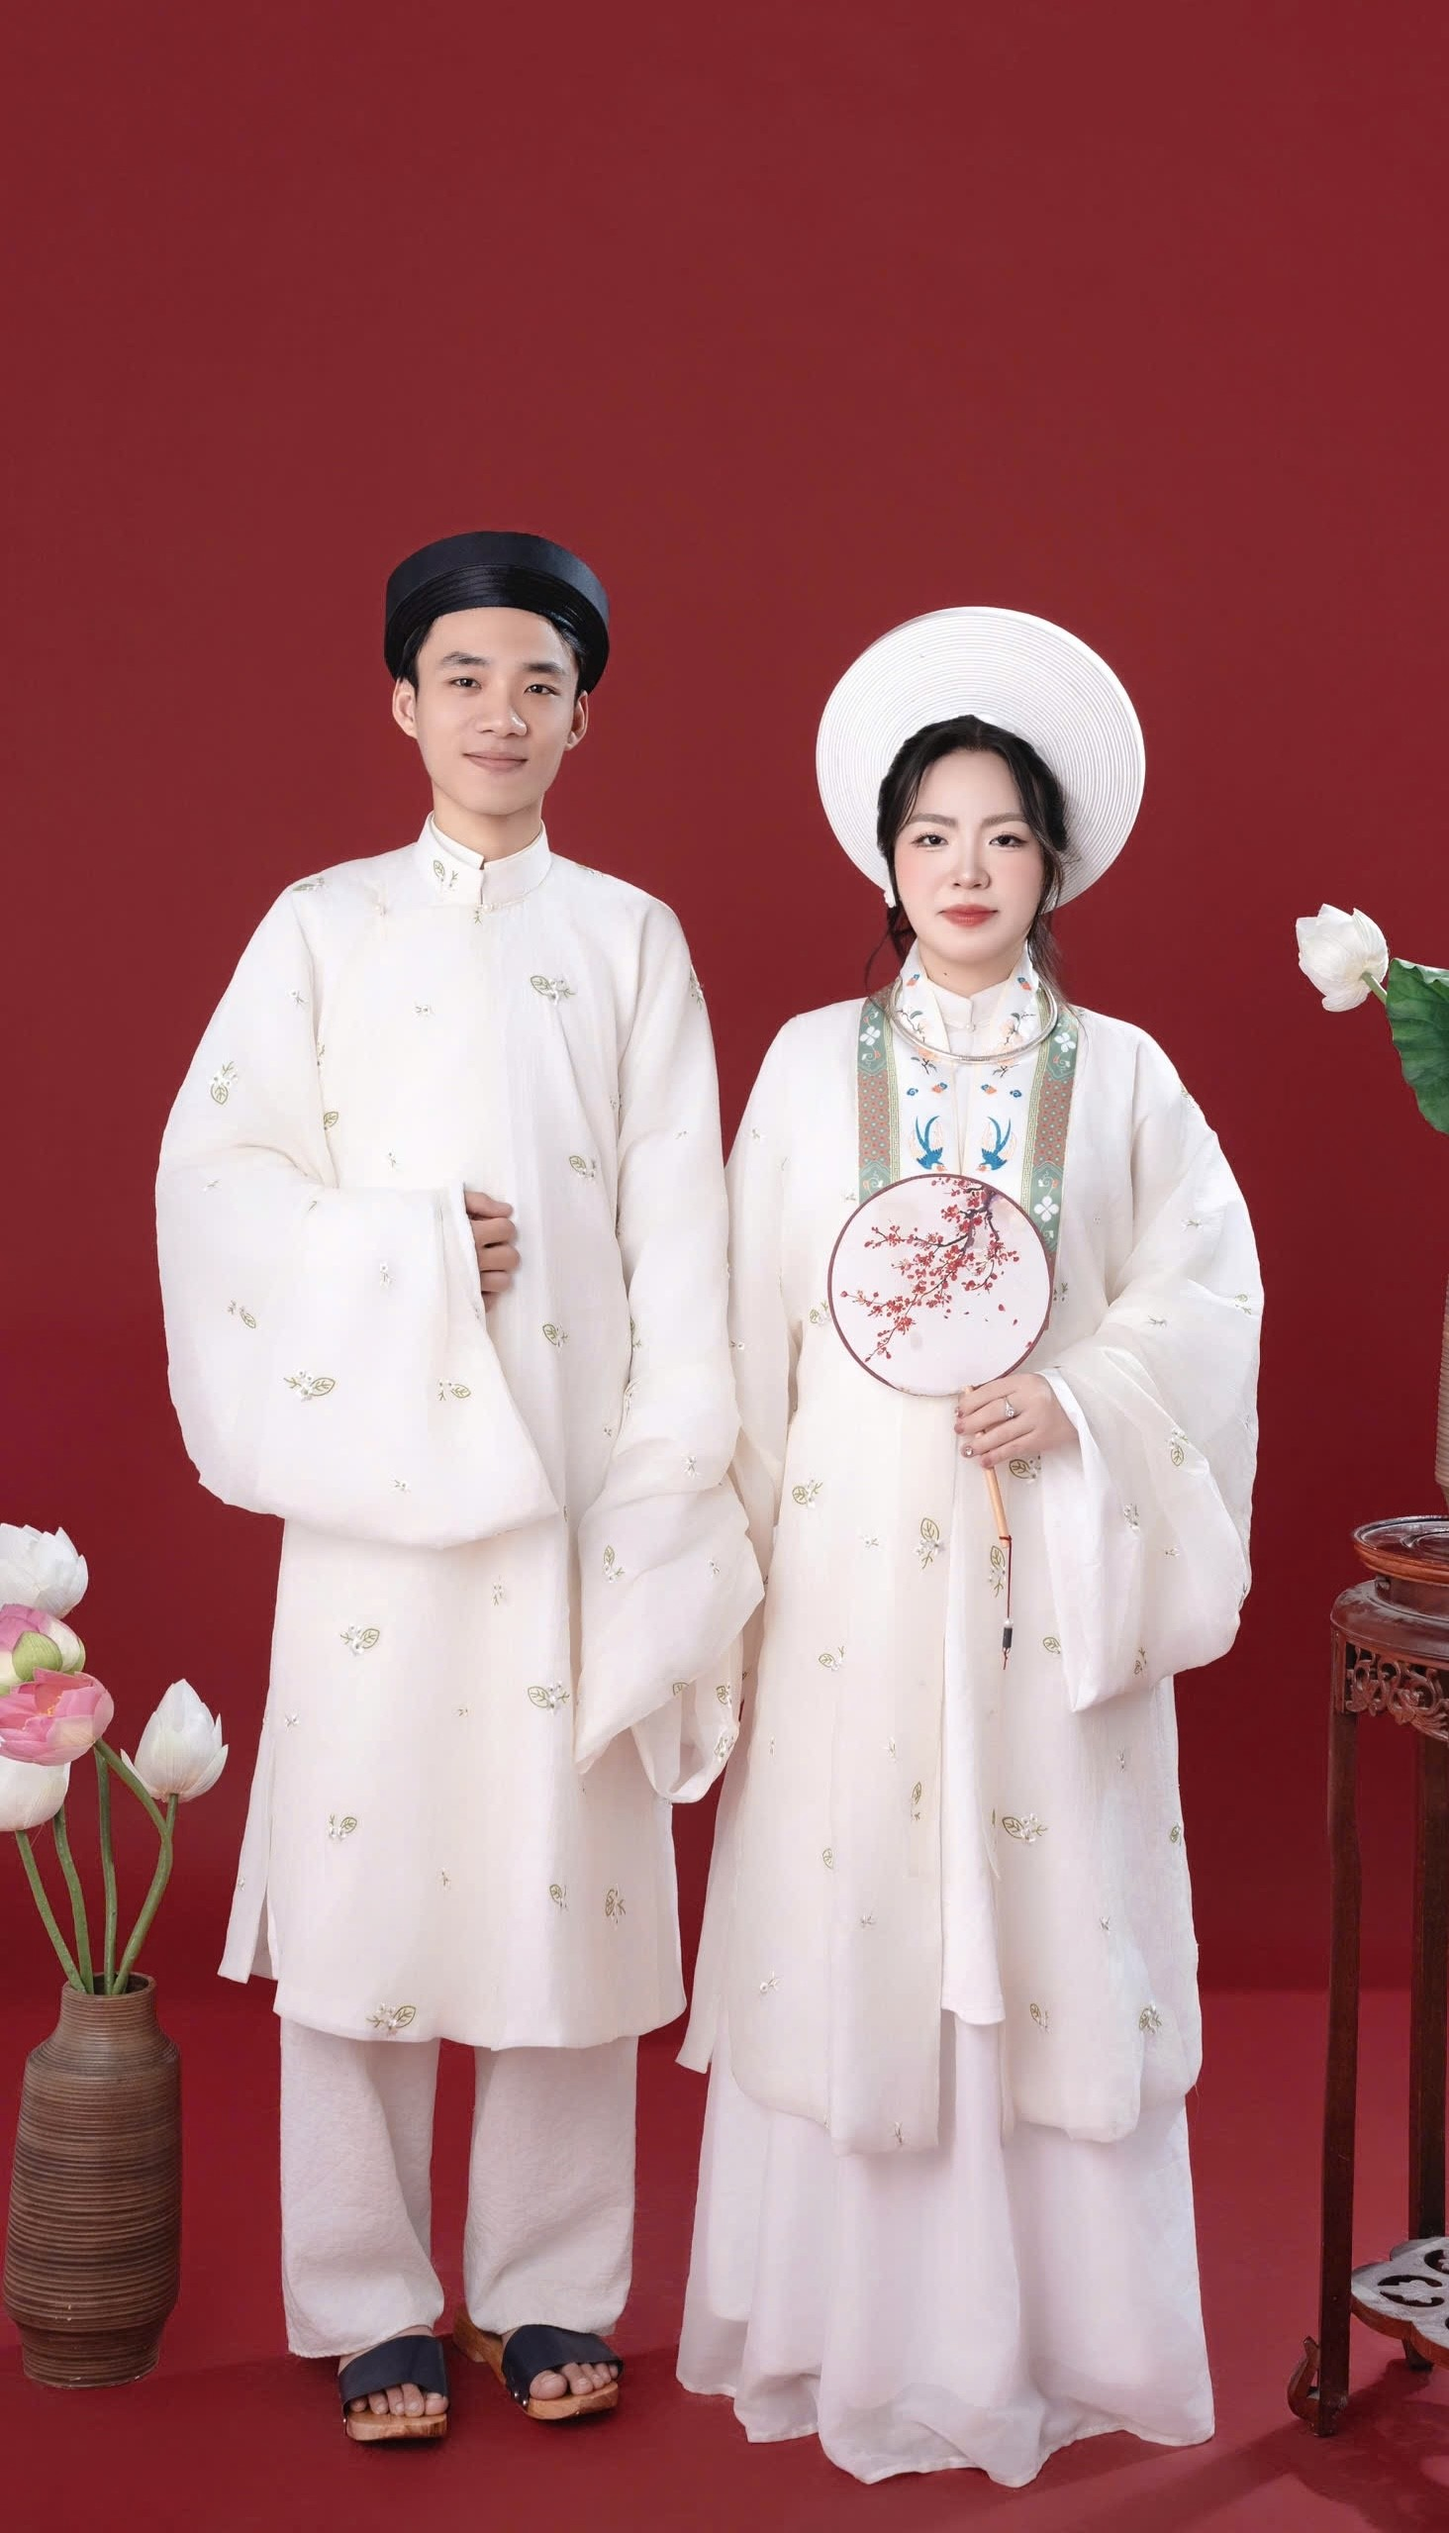
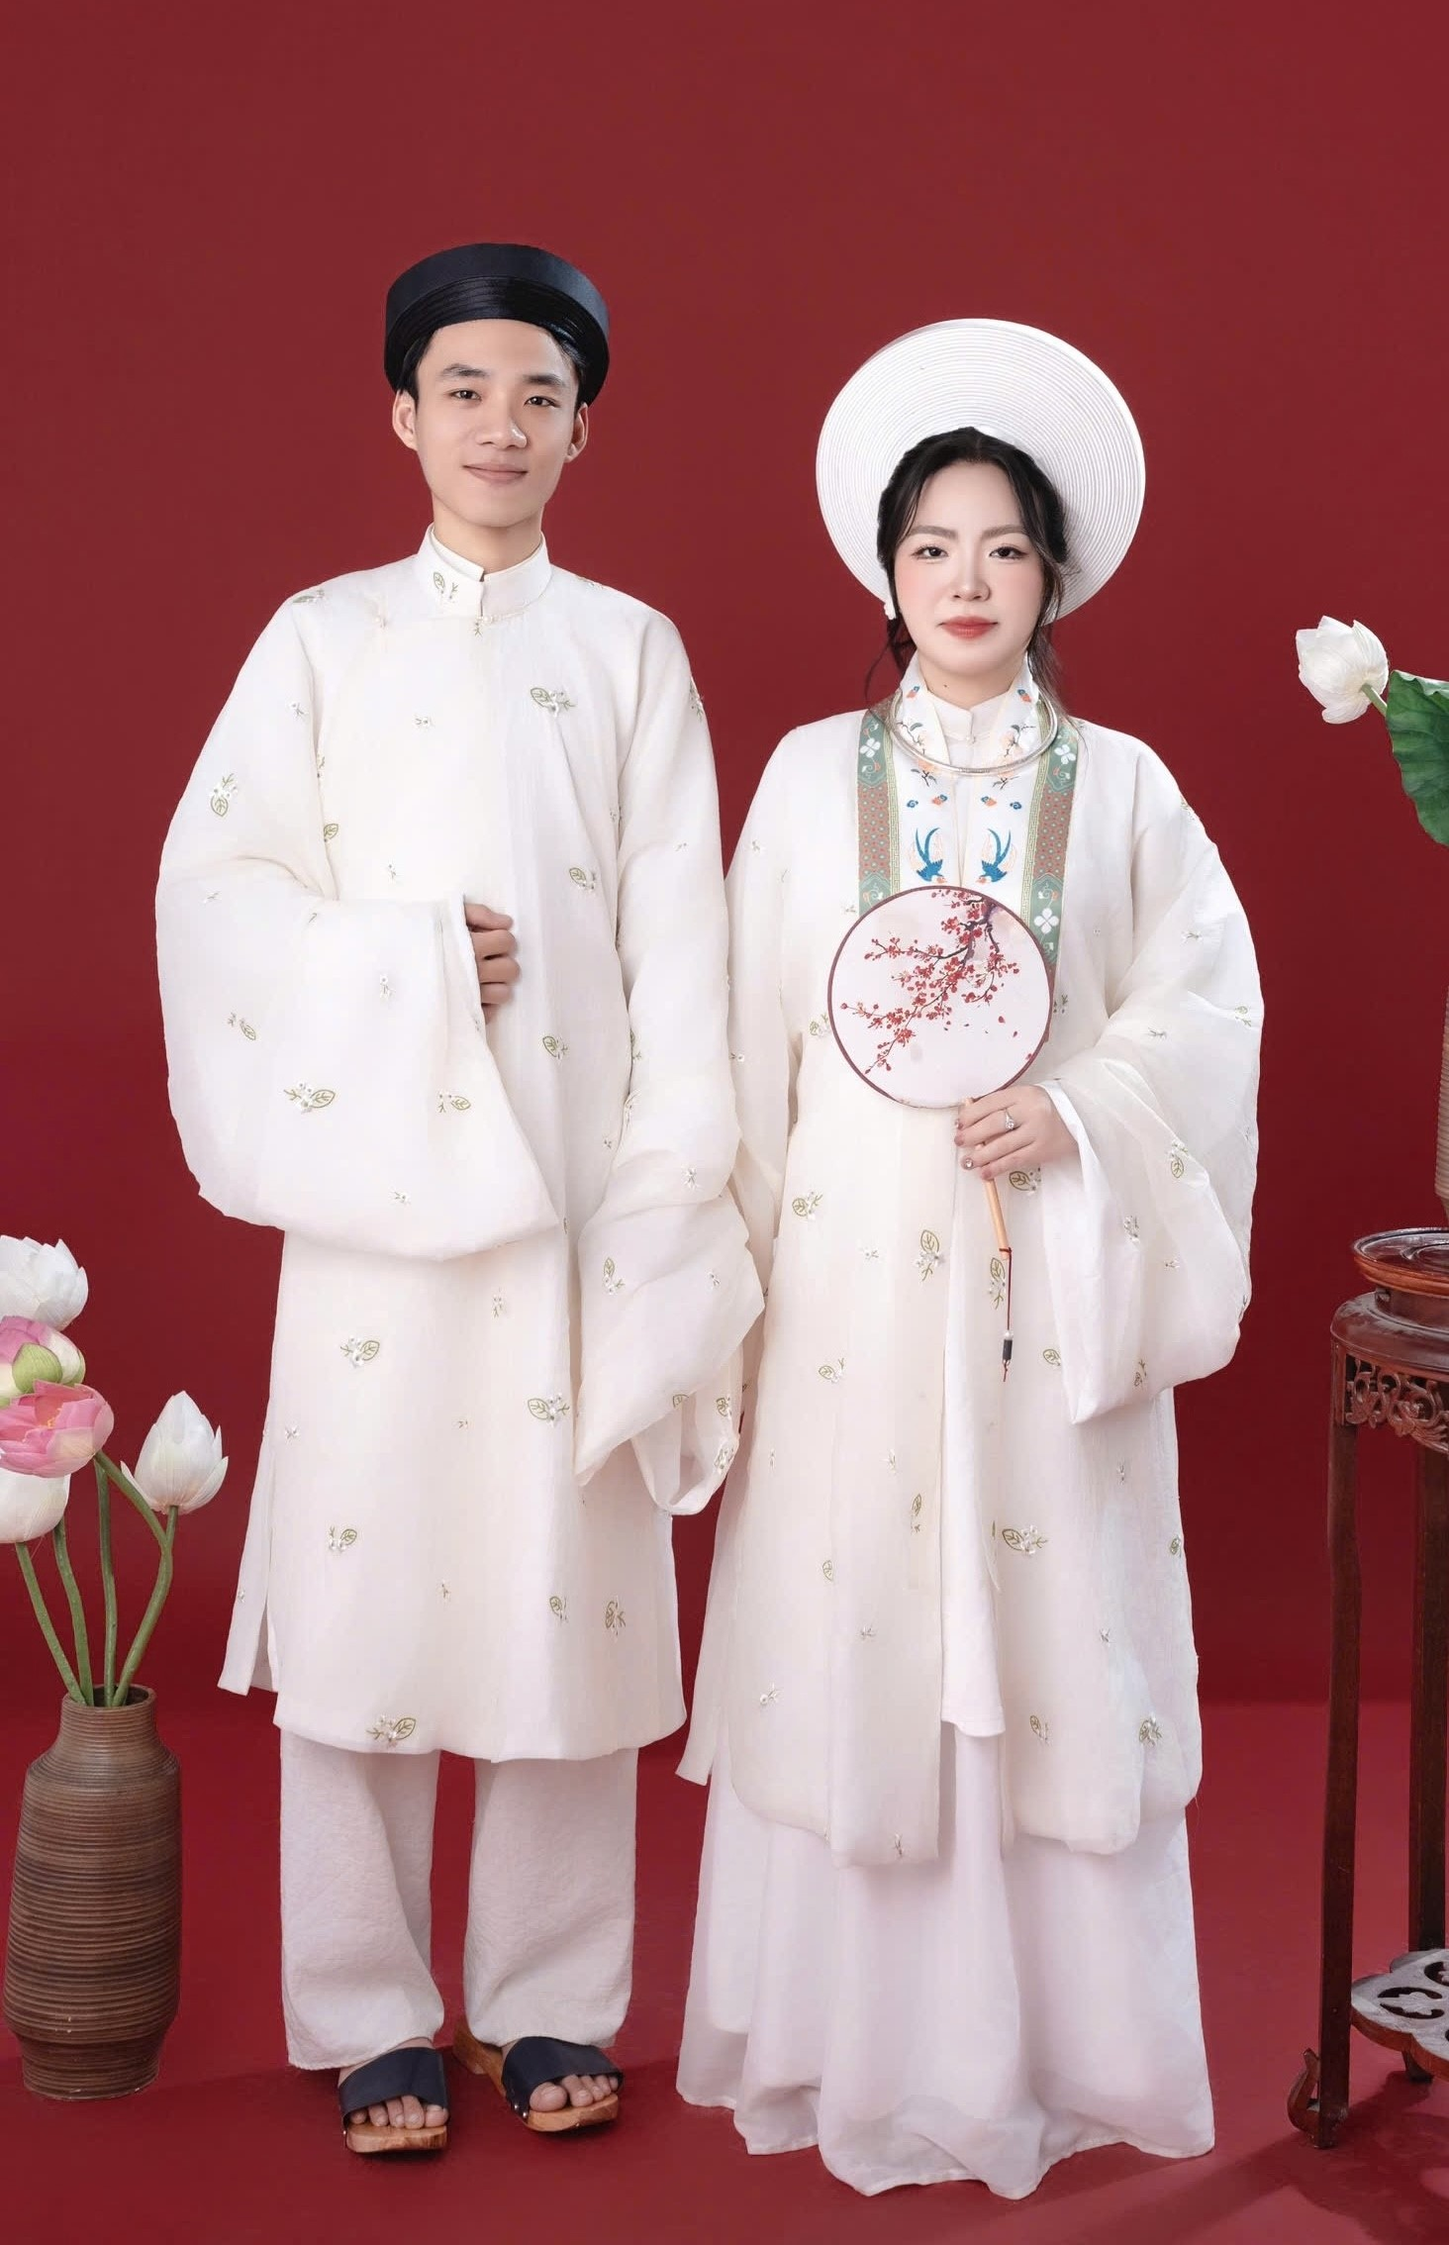
FIX

diff --git a/index.html b/index.html
@@ -2,7 +2,7 @@
     <meta charset="UTF-8">
     <meta name="viewport" content="width=device-width, initial-scale=1">
     <link rel="profile" href="https://gmpg.org/xfn/11">
-    <meta property="og:image" content="https://lswedding.s3.ap-southeast-1.amazonaws.com/weddings/34/YPKwfVGvdogdbJ9McGOXd4ptTqFtviGgHzH0jsh8.jpg">
+    <meta property="og:image" content="https://lswedding.s3.ap-southeast-1.amazonaws.com/weddings/34/ZVob6aOGn7RaEtNMOTz3m4TV7RA6DEUd7zVVXTj8.jpg">
 
     <!-- Search Engine Optimization by Rank Math - https://rankmath.com/ -->
     <title>Hoàng Sơn ❤ Vân Anh - Thiệp cưới online</title>
@@ -14,15 +14,15 @@
     <meta property="og:url" content="https://thiepdientu.github.io/HoangSon-VanAnh/">
     <meta property="og:site_name" content="Hoàng Sơn ❤ Vân Anh">
     <meta property="og:updated_time" content="2024-03-28T03:41:34+00:00">
-    <meta property="og:image" content="https://lswedding.s3.ap-southeast-1.amazonaws.com/weddings/34/YPKwfVGvdogdbJ9McGOXd4ptTqFtviGgHzH0jsh8.jpg">
-    <meta property="og:image:secure_url" content="https://lswedding.s3.ap-southeast-1.amazonaws.com/weddings/34/YPKwfVGvdogdbJ9McGOXd4ptTqFtviGgHzH0jsh8.jpg">
+    <meta property="og:image" content="https://lswedding.s3.ap-southeast-1.amazonaws.com/weddings/34/ZVob6aOGn7RaEtNMOTz3m4TV7RA6DEUd7zVVXTj8.jpg">
+    <meta property="og:image:secure_url" content="https://lswedding.s3.ap-southeast-1.amazonaws.com/weddings/34/ZVob6aOGn7RaEtNMOTz3m4TV7RA6DEUd7zVVXTj8.jpg">
     <meta property="og:image:width" content="426">
     <meta property="og:image:height" content="639">
     <meta property="og:image:alt" content="Hoàng Sơn ❤ Vân Anh">
     <meta property="og:image:type" content="image/jpeg">
     <meta name="twitter:card" content="summary_large_image">
     <meta name="twitter:title" content="Hoàng Sơn ❤ Vân Anh - Thiệp cưới online">
-    <meta name="https://lswedding.s3.ap-southeast-1.amazonaws.com/weddings/34/YPKwfVGvdogdbJ9McGOXd4ptTqFtviGgHzH0jsh8.jpg">
+    <meta name="https://lswedding.s3.ap-southeast-1.amazonaws.com/weddings/34/ZVob6aOGn7RaEtNMOTz3m4TV7RA6DEUd7zVVXTj8.jpg">
     <!-- /Rank Math WordPress SEO plugin -->
 
     <link rel="dns-prefetch" href="//cdn.jsdelivr.net">
@@ -549,7 +549,7 @@
     </div>
     <!-- END PRELOAD --> <!-- BANNER -->
     <section id="banner" class="section-banner">
-        <img src="images/banner_top.jpg" alt="" class="banner-bg banner_top" style="object-position:center center">
+        <img src="images/top.jpg" alt="" class="banner-bg banner_top" style="object-position:center center">
         <div class="banner-bg" style="background:#00000030;z-index: 19;">
 
             <div class="banner-container container">
